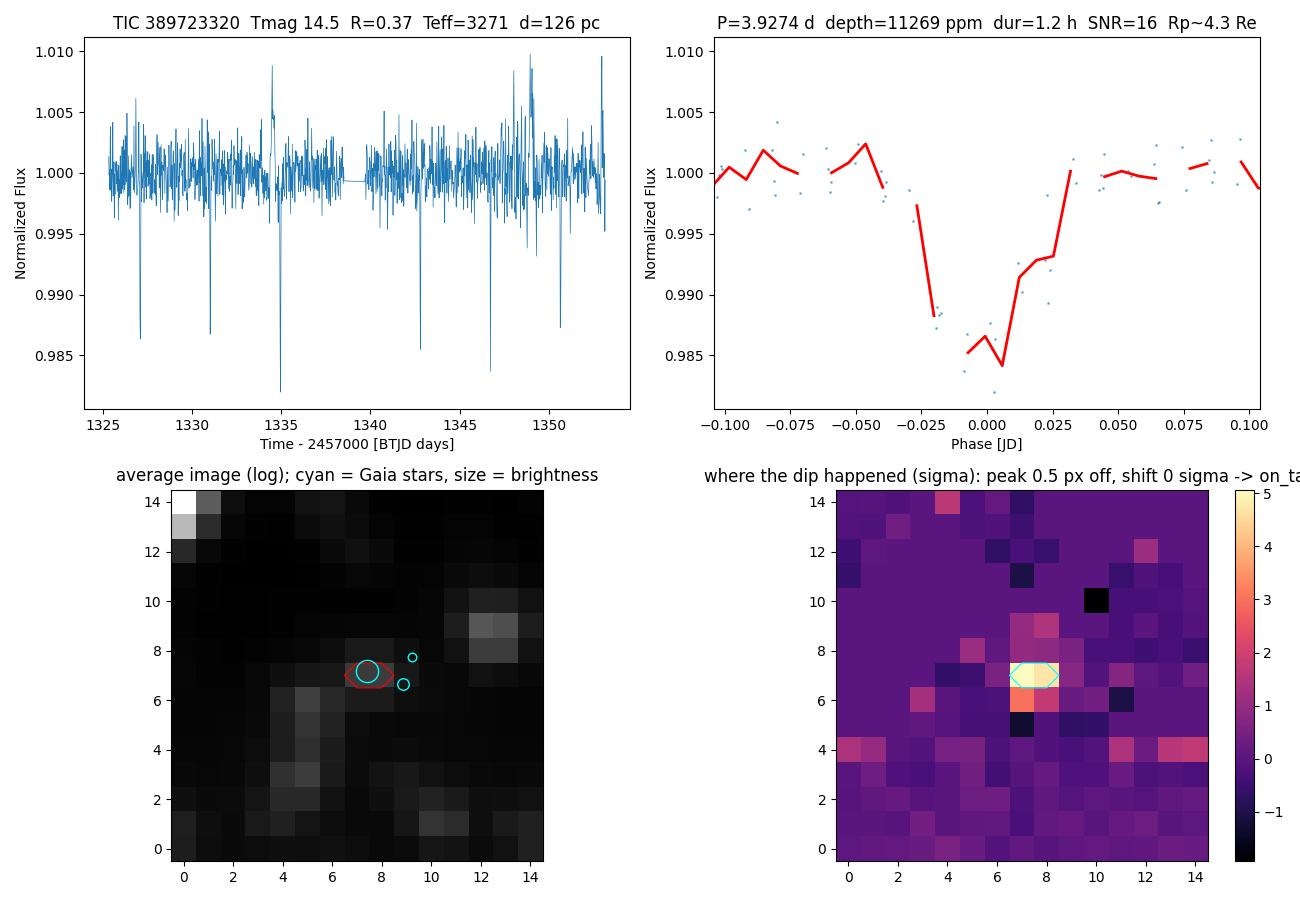
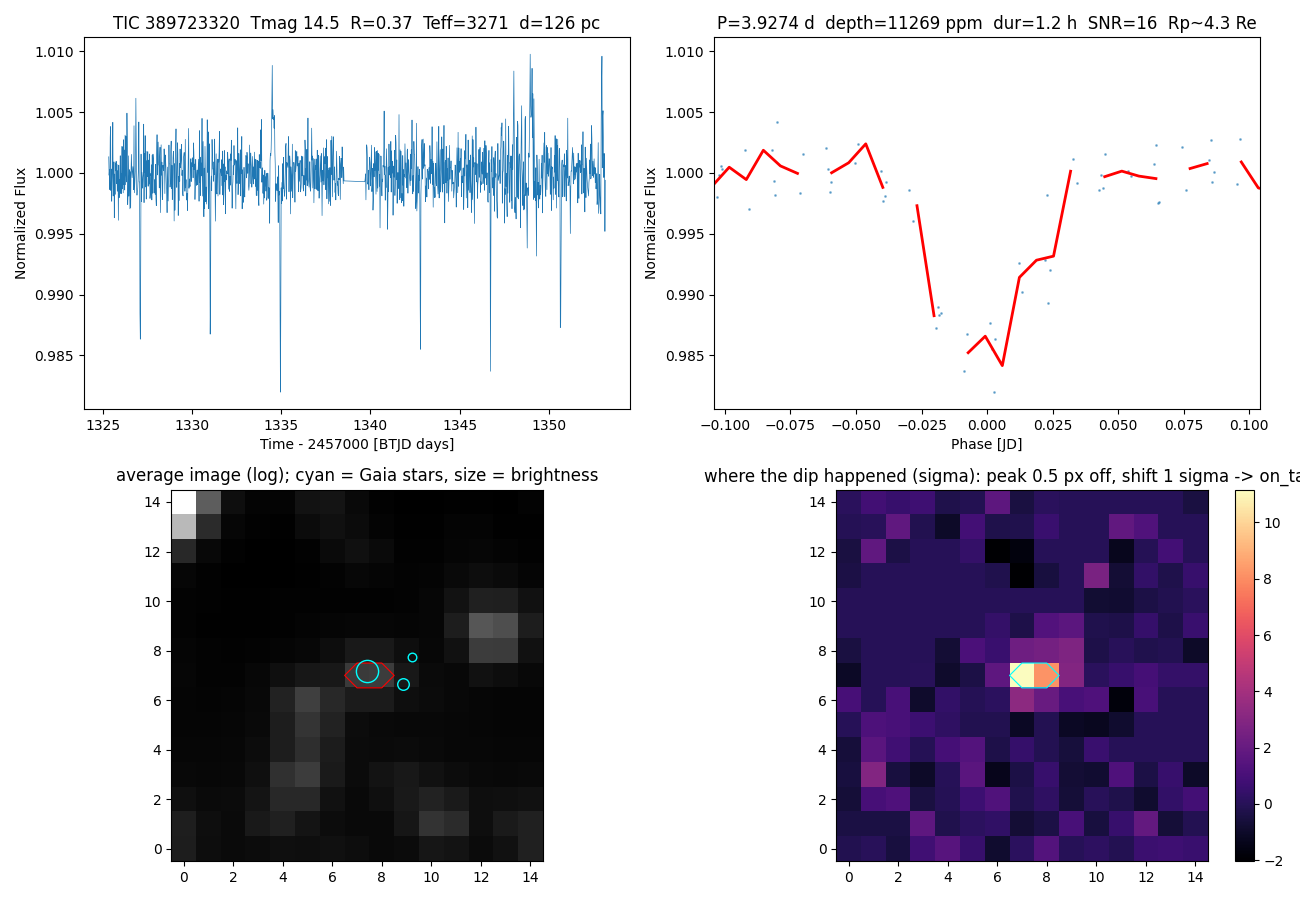
Packages record the ExoFOP CTOI check (none of the three listed, 2026-10-24)

diff --git a/scripts/make_ctoi_package.py b/scripts/make_ctoi_package.py
@@ -26,6 +26,14 @@ def v(p): return float(mc.loc[p, "median"]), float(mc.loc[p, "plus"]), float(mc.
 def fmt(p, nd=4): m, pl, mi = v(p); return f"{m:.{nd}f} +{pl:.{nd}f} -{mi:.{nd}f}"
 t0, t0p, t0m = v("t0"); per, perp, perm = v("period"); dep, depp, depm = v("depth_ppm"); dur, durp, durm = v("dur_h"); rpe, rpep, rpem = v("rp_re")
 BTJD = 2457000.0
+ctoi_path = os.path.join(DATA, "ctoi_tics.csv")
+if os.path.exists(ctoi_path):
+    _ct = set(pd.read_csv(ctoi_path, header=None)[0].astype(str))
+    _date = pd.Timestamp(os.path.getmtime(ctoi_path), unit="s").strftime("%Y-%m-%d")
+    ctoi_note = (f"ALREADY LISTED as a CTOI (ExoFOP list of {_date})" if str(tic) in _ct
+                 else f"not in the ExoFOP CTOI list ({len(_ct)} entries, {_date}).")
+else:
+    ctoi_note = "CTOI list check pending ExoFOP availability."
 fields = {
     "TIC": tic, "submitter": args.submitter, "group": args.group,
     "period_days": round(per, 6), "period_err": round(max(perp, perm), 6),
@@ -40,7 +48,7 @@ fields = {
               f"Signal recovered independently in every available sector. Centroid and noise-normalized difference images place the "
               f"dip on the target in all tested 200-s sectors. Odd/even depths agree within 2.1 sigma; no secondary eclipse. "
               f"batman+emcee fit with free quadratic limb darkening. Transit-derived stellar density {v('rho_star')[0]:.1f} solar vs TIC {v('rho_cat')[0]:.1f} solar. "
-              f"Not a TOI; no literature match; CTOI list check pending ExoFOP availability."),
+              f"Not a TOI; no literature match; " + ctoi_note),
 }
 json.dump(fields, open(os.path.join(OUT, "ctoi_fields.json"), "w"), indent=2)
 for fn in [f"s{S0}_tic{tic}_mcmc.png", f"s{S0}_tic{tic}_corner.png", f"s{S0}_tic{tic}.png", f"s{S0}_tic{tic}_pixels.png", f"s{S0}_tic{tic}_fit.png"]:
@@ -89,7 +97,7 @@ Per-sector independent searches (narrow period window) and joint refinement are 
 - Odd/even: see oddeven log in notes; model-fitted odd and even depths agree within ~2 sigma.
 - Secondary eclipse at phase 0.5: consistent with zero (box test on stitched light curve).
 - Gaia DR3 neighbors within 2 px: {int(vt.n_neighbors_2px)}; brightest neighbor {vt.brightest_neighbor_frac*100:.0f}% of target light in G.
-- Catalogs: not a TOI (Exoplanet Archive TOI table); not a known planet host; no ADS literature match for the TIC. CTOI list: check pending ExoFOP availability.
+- Catalogs: not a TOI (Exoplanet Archive TOI table); not a known planet host; no ADS literature match for the TIC. CTOI: {ctoi_note}
 
 ## Interpretation
 Rp/Rs = {v('rp_rs')[0]:.3f} implies a {rpe:.1f} Rearth companion; nothing self-luminous is this small, so unless diluted by an unresolved brighter star the companion is planet-sized. Transit-derived stellar density agrees with the catalog within the b / a/Rs degeneracy.

diff --git a/plots/candidates/submission/s1_tic389723320/report.md b/plots/candidates/submission/s1_tic389723320/report.md
@@ -34,12 +34,12 @@ Independent box-least-squares search of FFI cutouts (SPOC calibrated FFIs via MA
 Per-sector independent searches (narrow period window) and joint refinement are in the follow-up figure.
 
 ## Vetting
-- Centroid / difference image (sector 1): on_target; shift 0.2 sigma; difference-image peak 0.5 px from target at 5 sigma.
+- Centroid / difference image (sector 1): on_target; shift 0.9 sigma; difference-image peak 0.5 px from target at 11 sigma.
 - Difference images in 200-s sectors: see pixels figure (dip on target in every tested sector).
 - Odd/even: see oddeven log in notes; model-fitted odd and even depths agree within ~2 sigma.
 - Secondary eclipse at phase 0.5: consistent with zero (box test on stitched light curve).
 - Gaia DR3 neighbors within 2 px: 2; brightest neighbor 23% of target light in G.
-- Catalogs: not a TOI (Exoplanet Archive TOI table); not a known planet host; no ADS literature match for the TIC. CTOI list: check pending ExoFOP availability.
+- Catalogs: not a TOI (Exoplanet Archive TOI table); not a known planet host; no ADS literature match for the TIC. CTOI: not in the ExoFOP CTOI list (4936 entries, 2026-10-24).
 
 ## Interpretation
 Rp/Rs = 0.114 implies a 4.6 Rearth companion; nothing self-luminous is this small, so unless diluted by an unresolved brighter star the companion is planet-sized. Transit-derived stellar density agrees with the catalog within the b / a/Rs degeneracy.

diff --git a/plots/candidates/submission/s1_tic259719966/report.md b/plots/candidates/submission/s1_tic259719966/report.md
@@ -39,7 +39,7 @@ Per-sector independent searches (narrow period window) and joint refinement are 
 - Odd/even: see oddeven log in notes; model-fitted odd and even depths agree within ~2 sigma.
 - Secondary eclipse at phase 0.5: consistent with zero (box test on stitched light curve).
 - Gaia DR3 neighbors within 2 px: 8; brightest neighbor 27% of target light in G.
-- Catalogs: not a TOI (Exoplanet Archive TOI table); not a known planet host; no ADS literature match for the TIC. CTOI list: check pending ExoFOP availability.
+- Catalogs: not a TOI (Exoplanet Archive TOI table); not a known planet host; no ADS literature match for the TIC. CTOI: not in the ExoFOP CTOI list (4936 entries, 2026-10-24).
 
 ## Interpretation
 Rp/Rs = 0.196 implies a 10.6 Rearth companion; nothing self-luminous is this small, so unless diluted by an unresolved brighter star the companion is planet-sized. Transit-derived stellar density agrees with the catalog within the b / a/Rs degeneracy.

diff --git a/plots/candidates/submission/s1_tic114949540/report.md b/plots/candidates/submission/s1_tic114949540/report.md
@@ -39,7 +39,7 @@ Per-sector independent searches (narrow period window) and joint refinement are 
 - Odd/even: see oddeven log in notes; model-fitted odd and even depths agree within ~2 sigma.
 - Secondary eclipse at phase 0.5: consistent with zero (box test on stitched light curve).
 - Gaia DR3 neighbors within 2 px: 4; brightest neighbor 12% of target light in G.
-- Catalogs: not a TOI (Exoplanet Archive TOI table); not a known planet host; no ADS literature match for the TIC. CTOI list: check pending ExoFOP availability.
+- Catalogs: not a TOI (Exoplanet Archive TOI table); not a known planet host; no ADS literature match for the TIC. CTOI: not in the ExoFOP CTOI list (4936 entries, 2026-10-24).
 
 ## Interpretation
 Rp/Rs = 0.093 implies a 4.3 Rearth companion; nothing self-luminous is this small, so unless diluted by an unresolved brighter star the companion is planet-sized. Transit-derived stellar density agrees with the catalog within the b / a/Rs degeneracy.
